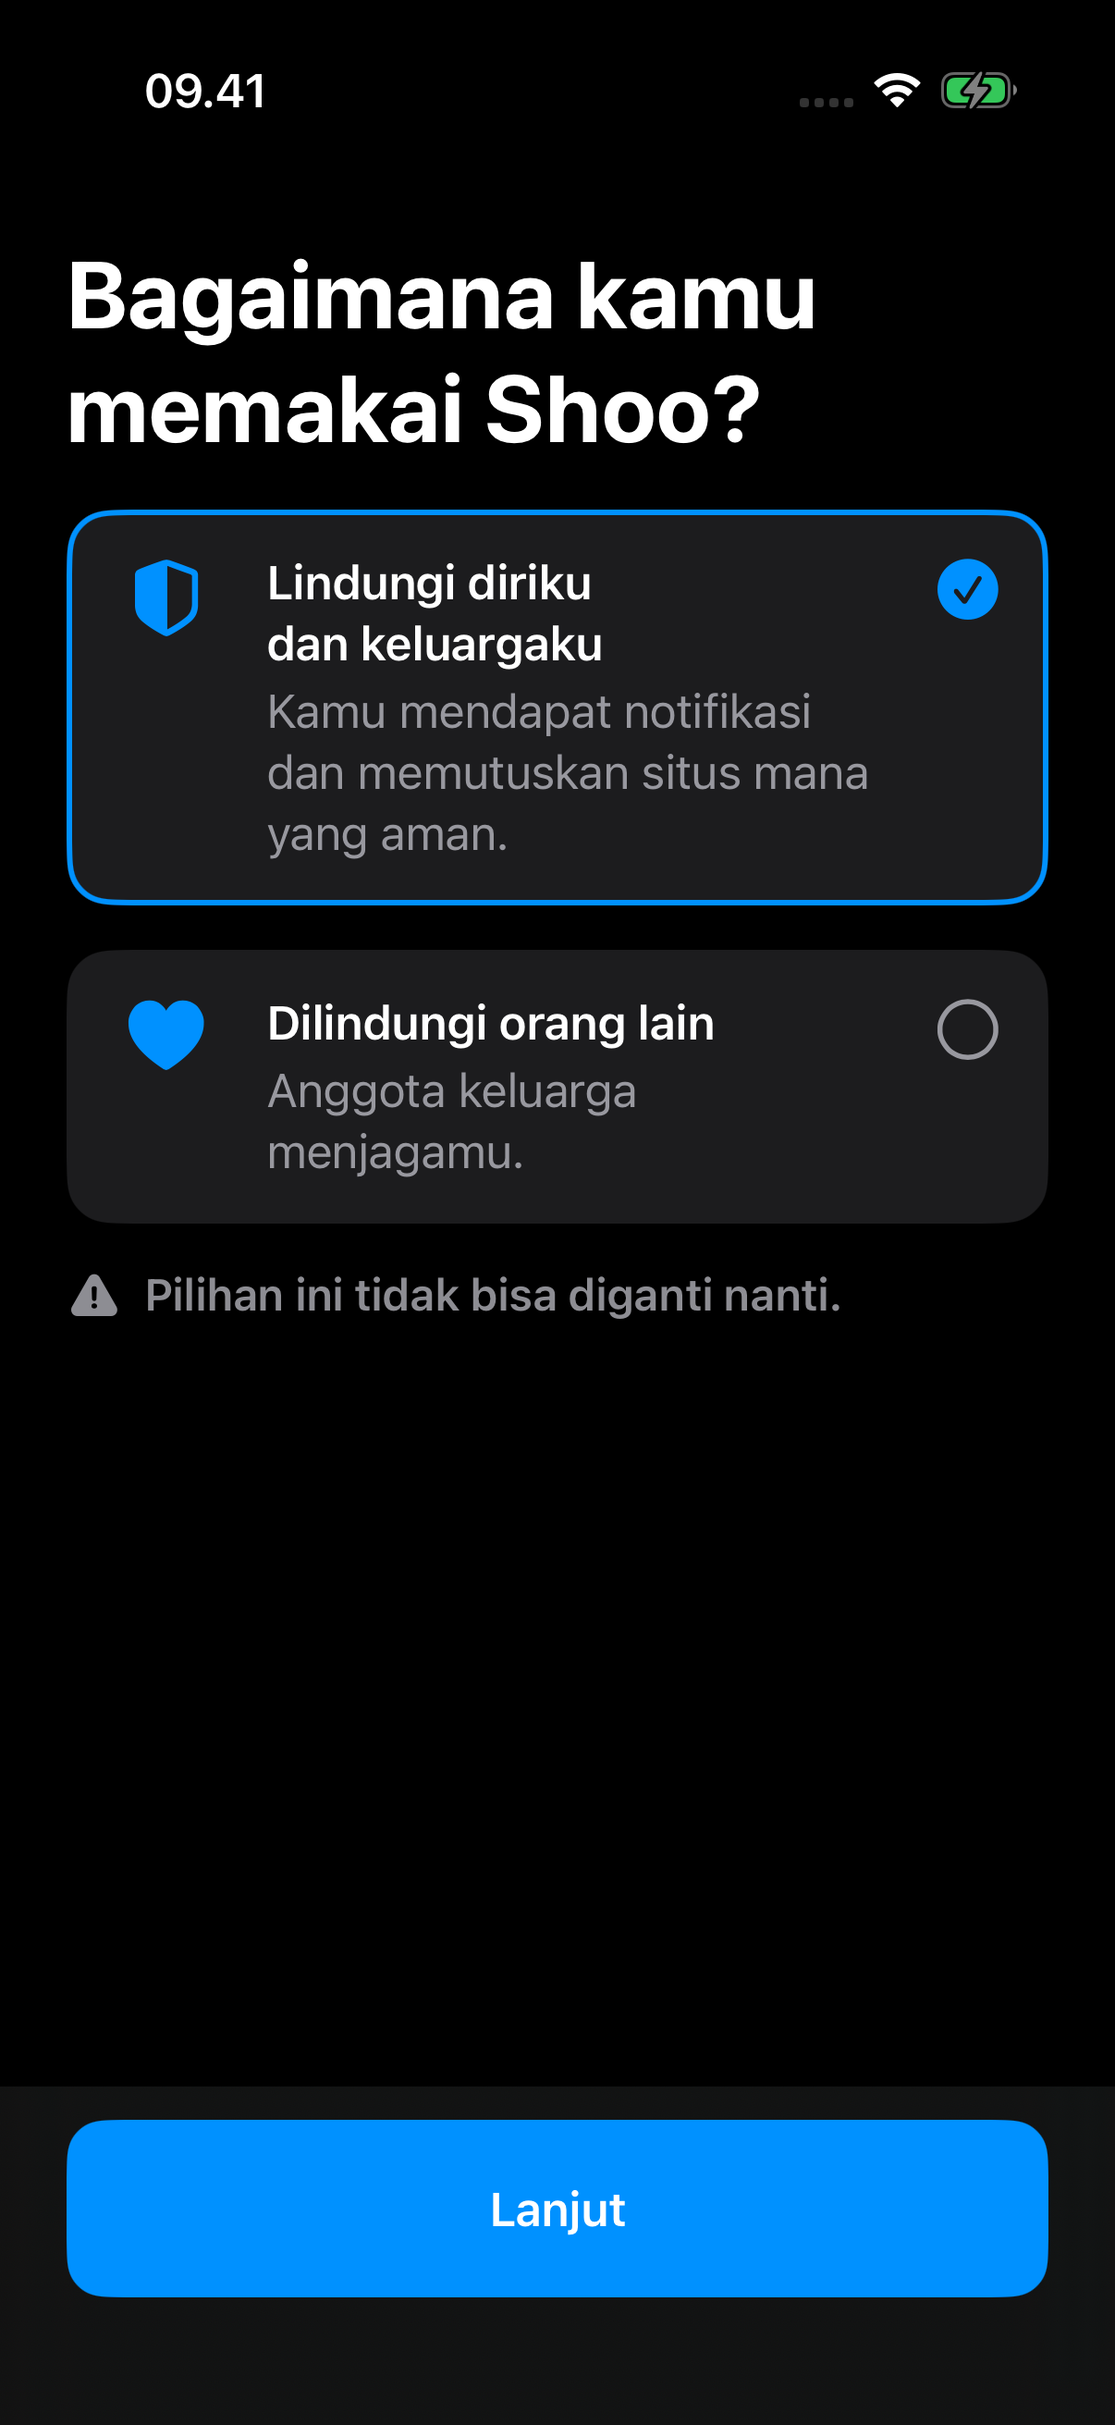
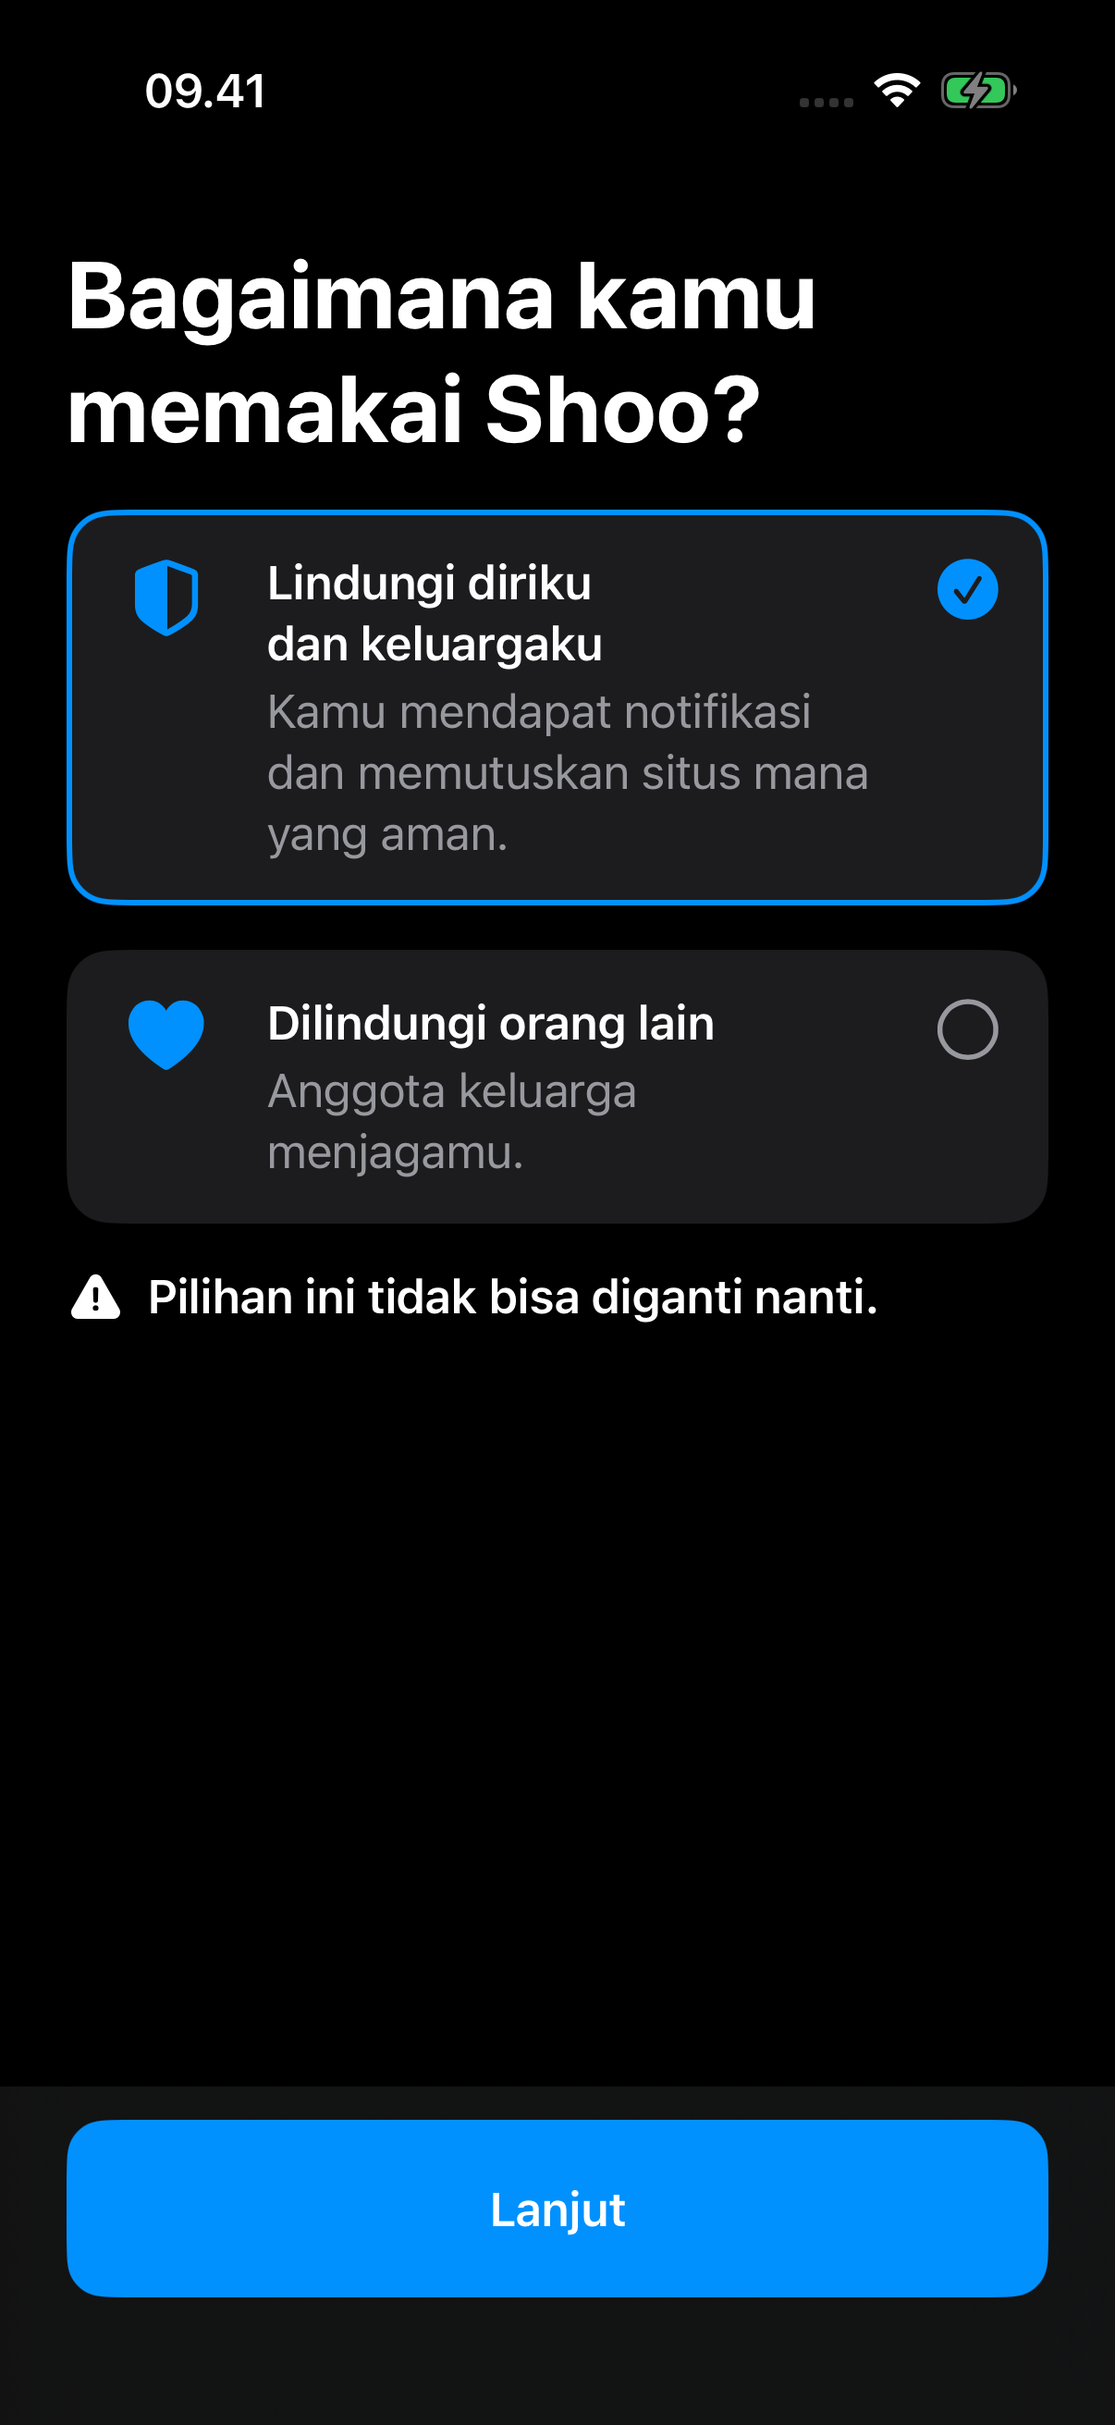
fix(ON-01-05): a11y fixes from UI gate, fase 02 log
- video close button visible on black; video link scrolls at accessibility sizes
- permanent-mode warning in primary body text; name limit stated up front
- reminder banner header + specific button label
- log/fase-02.md; TODO C15 asks for captions

Changed region(s): [[0.0614, 0.5252, 0.7977, 0.5561]]

diff --git a/ios/ShooApp/Features/Onboarding/TurnOnExtensionView.swift b/ios/ShooApp/Features/Onboarding/TurnOnExtensionView.swift
@@ -7,6 +7,7 @@ struct TurnOnExtensionView: View {
     @Environment(\.scenePhase) private var scenePhase
     @State private var isVideoPresented = false
     @ScaledMetric(relativeTo: .headline) private var badgeSize: CGFloat = 36
+    @Environment(\.dynamicTypeSize) private var dynamicTypeSize
 
     private let steps = ExtensionSetup.steps(for: ProcessInfo.processInfo.operatingSystemVersion)
 
@@ -43,16 +44,15 @@ struct TurnOnExtensionView: View {
                 .font(.callout)
                 .foregroundStyle(.secondary)
                 .accessibilityIdentifier("extension.offHint")
+                // At accessibility text sizes the pinned footer would hide the steps, so the link scrolls.
+                if dynamicTypeSize.isAccessibilitySize { videoLink }
             }
         } footer: {
             OnboardingPrimaryButton(title: "Turn on") {
                 Task { await ExtensionSetup.openSettings() }
             }
             .accessibilityIdentifier("extension.turnOn")
-            Button { isVideoPresented = true } label: {
-                Text("Still can't? Watch the video").frame(maxWidth: .infinity, minHeight: 44)
-            }
-            .accessibilityIdentifier("extension.video")
+            if !dynamicTypeSize.isAccessibilitySize { videoLink }
         }
         .onAppear { model.refreshExtensionStatus() }
         .onChange(of: scenePhase) { _, phase in
@@ -61,5 +61,12 @@ struct TurnOnExtensionView: View {
         .fullScreenCover(isPresented: $isVideoPresented) {
             TutorialVideoPlayer()
         }
+    }
+
+    private var videoLink: some View {
+        Button { isVideoPresented = true } label: {
+            Text("Still can't? Watch the video").frame(maxWidth: .infinity, minHeight: 44)
+        }
+        .accessibilityIdentifier("extension.video")
     }
 }

diff --git a/ios/ShooApp/Components/NotificationReminderBanner.swift b/ios/ShooApp/Components/NotificationReminderBanner.swift
@@ -15,6 +15,7 @@ struct NotificationReminderBanner: View {
             VStack(alignment: .leading, spacing: 8) {
                 Text("Notifications are off")
                     .font(.headline)
+                    .accessibilityAddTraits(.isHeader)
                 Text("You won't hear when your family is at risk.")
                     .font(.subheadline)
                 Button {
@@ -27,6 +28,7 @@ struct NotificationReminderBanner: View {
                     Text("Turn on").frame(minHeight: 44)
                 }
                 .buttonStyle(.borderedProminent)
+                .accessibilityLabel(Text("Turn on notifications"))
                 .accessibilityIdentifier("reminder.turnOn")
             }
             .frame(maxWidth: .infinity, alignment: .leading)

diff --git a/ios/ShooApp/Features/Onboarding/ModeView.swift b/ios/ShooApp/Features/Onboarding/ModeView.swift
@@ -28,8 +28,8 @@ struct ModeView: View {
                     selection: $model.selectedMode
                 )
                 Label { Text("You can't change this later.") } icon: { Image(systemName: "exclamationmark.triangle.fill") }
-                    .font(.callout.weight(.semibold))
-                    .foregroundStyle(.secondary)
+                    .font(.body.weight(.semibold))
+                    .foregroundStyle(.primary)
                 if model.registrationFailed {
                     Label { Text("Couldn't save. Check your connection and try again.") } icon: {
                         Image(systemName: "wifi.exclamationmark")

diff --git a/ios/ShooApp/Features/Onboarding/TutorialVideoPlayer.swift b/ios/ShooApp/Features/Onboarding/TutorialVideoPlayer.swift
@@ -26,8 +26,9 @@ struct TutorialVideoPlayer: View {
             Button { dismiss() } label: {
                 Image(systemName: "xmark")
                     .font(.headline)
+                    .foregroundStyle(.white)
                     .frame(width: 44, height: 44)
-                    .background(.ultraThinMaterial, in: Circle())
+                    .background(.black.opacity(0.6), in: Circle())
             }
             .accessibilityLabel(Text("Close"))
             .accessibilityIdentifier("video.close")

diff --git a/ios/ShooApp/Features/Onboarding/NameView.swift b/ios/ShooApp/Features/Onboarding/NameView.swift
@@ -12,7 +12,7 @@ struct NameView: View {
                 Text("What's your name?")
                     .font(.largeTitle.bold())
                     .accessibilityAddTraits(.isHeader)
-                Text("Your family sees this name.")
+                Text("Your family sees this name. Up to 20 characters.")
                     .font(.title3)
                     .foregroundStyle(.secondary)
                 TextField(text: $model.name) { Text("Your name") }

diff --git a/plan/alief/log/fase-02.md b/plan/alief/log/fase-02.md
@@ -1,0 +1,112 @@
+# Log fase 02 — Onboarding ON-01 … ON-05 (Alief, track app)
+
+- **Status:** [r] — PR dibuka (nomor di PROGRESS), stacked on #14 (`feat/APP-foundation`).
+- **Model:** Claude Opus 5.5. 22 Okt 2026. Rencana: `log/fase-02-plan.md`.
+
+## Ringkasan
+
+Pengguna baru menyelesaikan onboarding sampai Home: 3 slide + Skip, nama 1–20 karakter, pilih mode permanen (registrasi `MockRepository.registerDevice` → avatar acak), Connect (placeholder Protected), ON-04 nyalakan extension (langkah per versi iOS, `SFSafariSettings` di iOS 26.2+, cek status saat kembali ke app, video tutorial dengan PiP), ON-05 izin notifikasi (Guardian wajib menjawab, Protected boleh lewati) + banner pengingat di Shield.
+
+## Checklist langkah
+
+- [x] 1. ON-01 Splash: `TabView(.page)` 3 slide, titik indikator, Skip/Next/Get started.
+- [x] 2. ON-02 Nama: `NameRule` (trim, grapheme, tolak nama yang hanya karakter tak terlihat), tombol nonaktif sampai valid, pesan error EN/ID + diumumkan VoiceOver.
+- [x] 3. ON-03 Mode: dua kartu, peringatan permanen, `AppEnvironment.register` → `settings.chooseMode` (sekali). Sapaan "Hi, [nama]" + avatar acak (bukan inisial).
+- [x] 4. ON-04: `ExtensionSetup` + `TurnOnExtensionView` + `TutorialVideoPlayer` (D-alief-A06, A07). Off → tetap; Active (saat `scenePhase == .active`) → ON-05.
+- [x] 5. ON-05: `NotificationPermission` (D-alief-A08); `NotificationReminderBanner` di Shield.
+- [x] 6. Connect placeholder Protected (`TODO(sync:alief)` fase 14).
+- [x] 7. Gerbang UI, review, verifikasi.
+
+## File dibuat/diubah
+
+- Baru: `Features/Onboarding/{OnboardingModel, OnboardingFlow, SplashView, NameView, ModeView, GreetingView, ConnectPlaceholderView, TurnOnExtensionView, ExtensionSetup, TutorialVideoPlayer, NotificationPermissionView}.swift`, `Support/NotificationPermission.swift`, `Components/NotificationReminderBanner.swift`, `Resources/onboarding-tutorial-placeholder.mp4`, `Tests/OnboardingTests.swift`, `UITests/OnboardingUITests.swift`.
+- Diubah: `App/AppEnvironment.swift` (`register`, `finishOnboarding`, `notifications`, `extensionStatus`, hook DEBUG), `App/AppSettings.swift` (`chooseMode`, `onboardingConnectPassed`, `clear`), `App/RootView.swift`, `Features/Shield/ShieldPlaceholderView.swift`, `Data/MockRepository.swift` (hapus `switching(to:)`, digantikan registrasi), `Resources/Localizable.xcstrings` (+48 key EN/ID), `Tests/{AppSettings,Localization}Tests.swift`.
+- Dihapus: `Features/Onboarding/OnboardingPlaceholderView.swift`.
+- Plan: `log/fase-02-plan.md`, `log/fase-02.md`, `log/DECISIONS.md` (A04–A08), `PROGRESS.md` baris 02, `qa/img/ui-02/*.png`.
+
+## Hasil verifikasi (22 Okt 2026, Xcode 27.1, simulator khusus "Shoo App Track" iPhone 17 Pro iOS 26.4)
+
+| Perintah | Hasil |
+|---|---|
+| `xcodebuild test … -scheme Shoo` (semua target) | `** TEST SUCCEEDED **` · Swift Testing **78 test / 10 suite lulus** · XCUITest **10/10 lulus** (`OnboardingUITests` 7, `SmokeUITests` 3) · 0 warning compiler |
+| `grep -rn "print(" ios/ShooApp --include='*.swift'` | kosong |
+| `grep -rn "App-prefs\|com\.shoo\|group\.com" … --include='*.swift'` | hanya komentar "Never uses `App-prefs:`" |
+| `git diff origin/main...HEAD -- ios/project.yml contracts ios/ShooShared` | kosong |
+
+Catatan: run pertama memakai simulator yang sama dengan job screenshot → 2 UI test gagal karena app diluncurkan ulang oleh job lain. Sejak itu test dan screenshot memakai simulator khusus `8646F92B-…` dan tidak berjalan bersamaan.
+
+## DoD + bukti
+
+- [x] ON-01: 3 slide, bisa digeser, indikator titik, Skip ke ON-02 — `OnboardingUITests.testSplashHasThreeSwipeableSlidesAndSkip`.
+- [x] ON-02: 0 dan 21 karakter ditolak, 1 dan 20 diterima — `NameRuleTests` (+ trim, emoji, karakter tak terlihat) + `testNameLongerThanTwentyCharactersIsRejected`.
+- [x] Avatar acak tampil setelah registrasi (bukan inisial) — `OnboardingModelTests.guardianPath` + `greeting-*.png`.
+- [x] ON-03: mode tersimpan dan tidak bisa diganti — `modeIsPermanentAfterRegistration`, `AppSettingsTests.modeCanBeChosenOnlyOnce`, UI test tanpa tombol Back + relaunch tidak kembali ke ON-03.
+- [x] ON-04: Off → tetap, Active → lanjut; Turn on membuka Settings; link video membuka player — `extensionOffStaysActiveContinues`, `testExtensionOffStays…`, `testTurnOnOpensSettings` (app Settings ke foreground), `testVideoLinkOpensPlayer`, `extension-*.png`. Uji di iPhone nyata: 01S / QA-E2E #17.
+- [x] ON-05: izin diminta; ditolak → banner pengingat di Home — `guardianFinishesEvenWhenPermissionIsDenied`, `testGuardianOnboardingEndsOnHomeWithReminderWhenNotificationsDenied`, `shield-reminder-*.png`. Reset izin simulator diganti jawaban izin palsu DEBUG (D-alief-A05).
+- [x] Screenshot EN + ID di `qa/img/ui-02/` (9 layar × EN/ID × light/dark/AX-XL = 54).
+
+## Gerbang UI
+
+Screenshot `plan/alief/qa/img/ui-02/<layar>-<en|id>-<light|dark|xl>.png`: `splash`, `name`, `mode`, `greeting`, `connect`, `extension`, `notifications-guardian`, `notifications-protected`, `shield-reminder`. `xl` = Dynamic Type AX-XL. Diambil dengan `simctl` + `-debug.onboardingStep`.
+
+Review `apple-design` + `ecc:a11y-architect` (22 Okt): **0 HIGH**, 4 MEDIUM, 8 LOW.
+
+| Temuan | Sev | Tindakan |
+|---|---|---|
+| Tombol tutup video bisa hampir tak terlihat (glyph gelap di atas hitam), satu-satunya jalan keluar | MEDIUM | Diperbaiki: glyph putih di lingkaran hitam 60 % |
+| Video tutorial tanpa teks/caption (pengguna 45–65) | MEDIUM | Syarat ditambahkan ke permintaan video PM (TODO C15) |
+| ON-04 di AX-XL: footer (Turn on + link video) menutupi langkah 2–3 | MEDIUM | Diperbaiki: di ukuran aksesibilitas link video ikut scroll, hanya Turn on yang dipin |
+| Peringatan "tidak bisa diganti" `.secondary` kecil | MEDIUM | Diperbaiki: `.body` semibold `.primary` |
+| Batas 20 karakter baru disebut setelah dilanggar | LOW | Diperbaiki: subjudul "… Up to 20 characters." |
+| Tombol banner hanya "Turn on" di luar konteks; judul banner bukan header | LOW | Diperbaiki: label "Turn on notifications", `.isHeader` |
+| Lingkaran kartu mode tidak terpilih ±3:1; auto-focus keyboard saat VoiceOver; avatar dibaca dua kali; ikon lonceng oranye ±2:1 (dekoratif); indikator halaman menimpa teks di AX-XL; status "Shoo is off." tidak diumumkan saat berubah | LOW | Ditunda ke re-skin / QA-A 06Q (layar berpindah otomatis saat Active, jadi perubahan status terlihat sebagai pindah layar) |
+
+Perbandingan PRD: urutan ON-01 → ON-05 dan Protected lewat Connect sesuai fase 02; teks pendek untuk persona 45–65. **Re-skin saat desain final datang** (ilustrasi ON-01/ON-04 masih SF Symbols, video PM C15).
+
+## Temuan review
+
+`ecc:swift-reviewer` (22 Okt): 2 HIGH, 8 MEDIUM, 10 LOW.
+
+| # | Temuan | Tindakan |
+|---|---|---|
+| H1 | `register` di `AppEnvironment` (bukan MainActor) mengubah state `@Observable` di luar main actor | Diperbaiki: `register`/`finishOnboarding` `@MainActor` |
+| H2 | Protected yang menutup app di Connect tidak pernah melihat Connect lagi | Diperbaiki: `onboardingConnectPassed`; test `protectedRelaunchResumesAtConnectUntilPassed` |
+| M | Token registrasi di model; audio session tidak dilepas; video hilang = layar hitam; nama hanya zero-width; error tanpa pengumuman VoiceOver; Reduce Motion; badge langkah tidak ikut Dynamic Type | Diperbaiki (token tidak lagi di model + `TODO(sync:alief)` Keychain fase 13) |
+| M | PiP di luar app butuh `UIBackgroundModes: audio` | Permintaan Umar (TODO C3 butir 4), D-alief-A07 |
+| M | Konfirmasi tambahan sebelum mode permanen | Tidak ditambah (PRD: teks peringatan saja), D-alief-A08; cek ulang di QA-A |
+| L | Banner `notDetermined` membuka Settings; `FixedNotificationPermission` ikut Release | Diperbaiki |
+| L | `registerForRemoteNotifications` saat izin sudah ada sebelumnya; langkah ON-04 tidak berganti saat `SFSafariSettings` gagal; override `-settings.*` lewat domain argumen | Ditunda: fase 15 (token APNs), 01S/06Q, dicatat di D-alief-A05 |
+
+### SECURITY §3 P1–P13 (diff fase ini)
+
+| # | Status |
+|---|---|
+| P1 | ✅ tidak ada API required-reason baru (UserDefaults sudah `CA92.1`); manifest tidak berubah |
+| P2 | – fase 16 (nama sudah dideklarasikan di manifest) |
+| P3 | – fase 06/13; `AppSettings.clear` ikut menghapus key onboarding baru |
+| P4 | ✅ token registrasi tidak disimpan di `UserDefaults` maupun model; hanya preferensi non-sensitif (mode, flag onboarding) |
+| P5 | ✅ tidak ada jaringan baru |
+| P6 | ✅ `Log` `.private`, tanpa `print`, token tidak di-log |
+| P7 | ✅ izin notifikasi just-in-time di ON-05 dengan alasan jujur, ditolak tetap jalan; kamera tidak disentuh |
+| P8–P12 | – |
+| P13 | ✅ tidak ada data pengguna yang disalin/di-cache |
+| Lain | ✅ tanpa `App-prefs:`, ID extension dari bundle ID, tanpa SDK pihak ketiga, video lokal (tidak ada unduhan) |
+
+## Placeholder aktif
+
+- `ConnectPlaceholderView.swift` — `TODO(sync:alief)` PR-01 (fase 14).
+- `TutorialVideoPlayer.swift` — `TODO(sync:umar)` video PM (C15).
+- `AppEnvironment.swift` — `TODO(sync:alief)` simpan token di Keychain + App Group (fase 13); `ApiRepository` (fase 13).
+- `NotificationPermission.swift` — `TODO(sync:alief)` kirim token APNs (fase 15).
+- Dari fase 01: `AppConfig.swift` (URL Worker), `MainTabView.swift` (DetailView, fase 03).
+
+## LANGKAH MANUAL
+
+Tidak ada. Pending pihak luar (bukan [m]): C3 butir 2 (push capability) dan butir 4 (`UIBackgroundModes: audio` untuk PiP), C15 (video PM), uji ON-04 di iPhone (01S / QA-E2E #17).
+
+## Catatan handoff
+
+- `TurnOnExtensionView` dipakai ulang sebagai sheet "Turn on" di PR-04/GD-01 (fase 04/05): komponen butuh `OnboardingModel` sekarang; fase 04 sebaiknya mengekstrak langkah + tombol jadi view tanpa model.
+- Fase 13: `AppEnvironment.register` menyimpan token di Keychain + key App Group sebelum `chooseMode`.
+- Fase 15: kirim token APNs; panggil `registerForRemoteNotifications()` juga saat izin sudah `authorized` dari awal.
+- Simulator khusus track app: `Shoo App Track` (`8646F92B-5080-4C5A-8506-C2F06C5AD508`).

diff --git a/plan/alief/TODO.md b/plan/alief/TODO.md
@@ -61,7 +61,7 @@ Jangan tempel nilai secret di chat atau di file repo. Agent hanya perlu tahu bah
 | C12 | Umar | Usulan kontrak D-alief-21: `GET /devices/me` → `{ deviceId, name, avatarId, mode, language, guardian: { deviceId, name, avatarId } \| null }`, supaya Protected tahu guardian-nya dan tahu kalau sudah diputus Guardian (PR-04, PF-01, EX-06 "Waiting for [nama]"). | sebelum fase 13 | [x] diterima kontrak (PR #1/#3/#4, merged 21 Okt) |
 | C13 | Umar | Konfirmasi: `GET /scans?owner=family` memuat scan Guardian sendiri juga (fixture `activity-family.json` memuat `dev_me`)? Default plan: ya, ikut fixture (D-alief-19). | sebelum fase 05/09 | [x] diterima kontrak (PR #1/#3/#4, merged 21 Okt) |
 | C14 | Umar | Hasil spike S1/S2 (fase 01S): "Heartbeat pertama muncul <x> s setelah toggle + satu halaman dimuat; Off terdeteksi setelah <y>. Usulan `AppGroup.extensionActiveWindow` = <nilai>. Cabut 'Allow on every website' = <hasil> (untuk U7/EX-01). Link langsung `openExtensionsSettings` (iOS 26.2+) = <hasil>; iOS < 26.2: <n> tap dari `openSettingsURLString`." | akhir fase 01S | [ ] |
-| C15 | Umar (→ PM Richard) | "ON-04 butuh video tutorial ≤ 60 s, ramah orang tua (PRD ON-04, dibuat PM). Format MP4 H.264, EN + ID kalau ada narasi. Sampai ada, app memakai placeholder." | fase 02 | [ ] |
+| C15 | Umar (→ PM Richard) | "ON-04 butuh video tutorial ≤ 60 s, ramah orang tua (PRD ON-04, dibuat PM). Format MP4 H.264, EN + ID kalau ada narasi, dengan teks/caption (burned-in atau track subtitle) untuk pengguna yang sulit mendengar. Sampai ada, app memakai placeholder." | fase 02 | [ ] |
 | C17 | Umar | Usulan (hasil 01S, D-alief-34): di iOS 26.2+ app memakai `SFSafariExtensionManager.stateOfExtension(withIdentifier:)` (`.isEnabled`) sebagai sumber status tambahan di samping heartbeat `extension.lastSeenAt` (aturan `ios/ShooApp/CLAUDE.md` saat ini hanya heartbeat), dan `SFSafariSettings.openExtensionsSettings` untuk tombol Turn on. Sampai disetujui: status tetap heartbeat saja. | akhir fase 01S | [ ] |
 | C18 | Umar | "Mohon aktifkan branch protection di `main` (CODEOWNERS sudah menyarankan) supaya status review PR (`reviewDecision`) terisi." | sebelum PR fase pertama | [ ] |
 | C16 | Umar | "Deep link kontrak PR #1 (`shoo://scan/{id}`, `shoo://activity`, `shoo://join`, default Shield) sudah masuk plan: fase 14 (`join` + default) dan fase 15 (`scan`, `activity`). Mohon merge PR #1." (sebelumnya usulan D-alief-32, sekarang dikerjakan Umar) | sebelum fase 15 | [x] diterima kontrak (PR #1/#3/#4, merged 21 Okt) |
